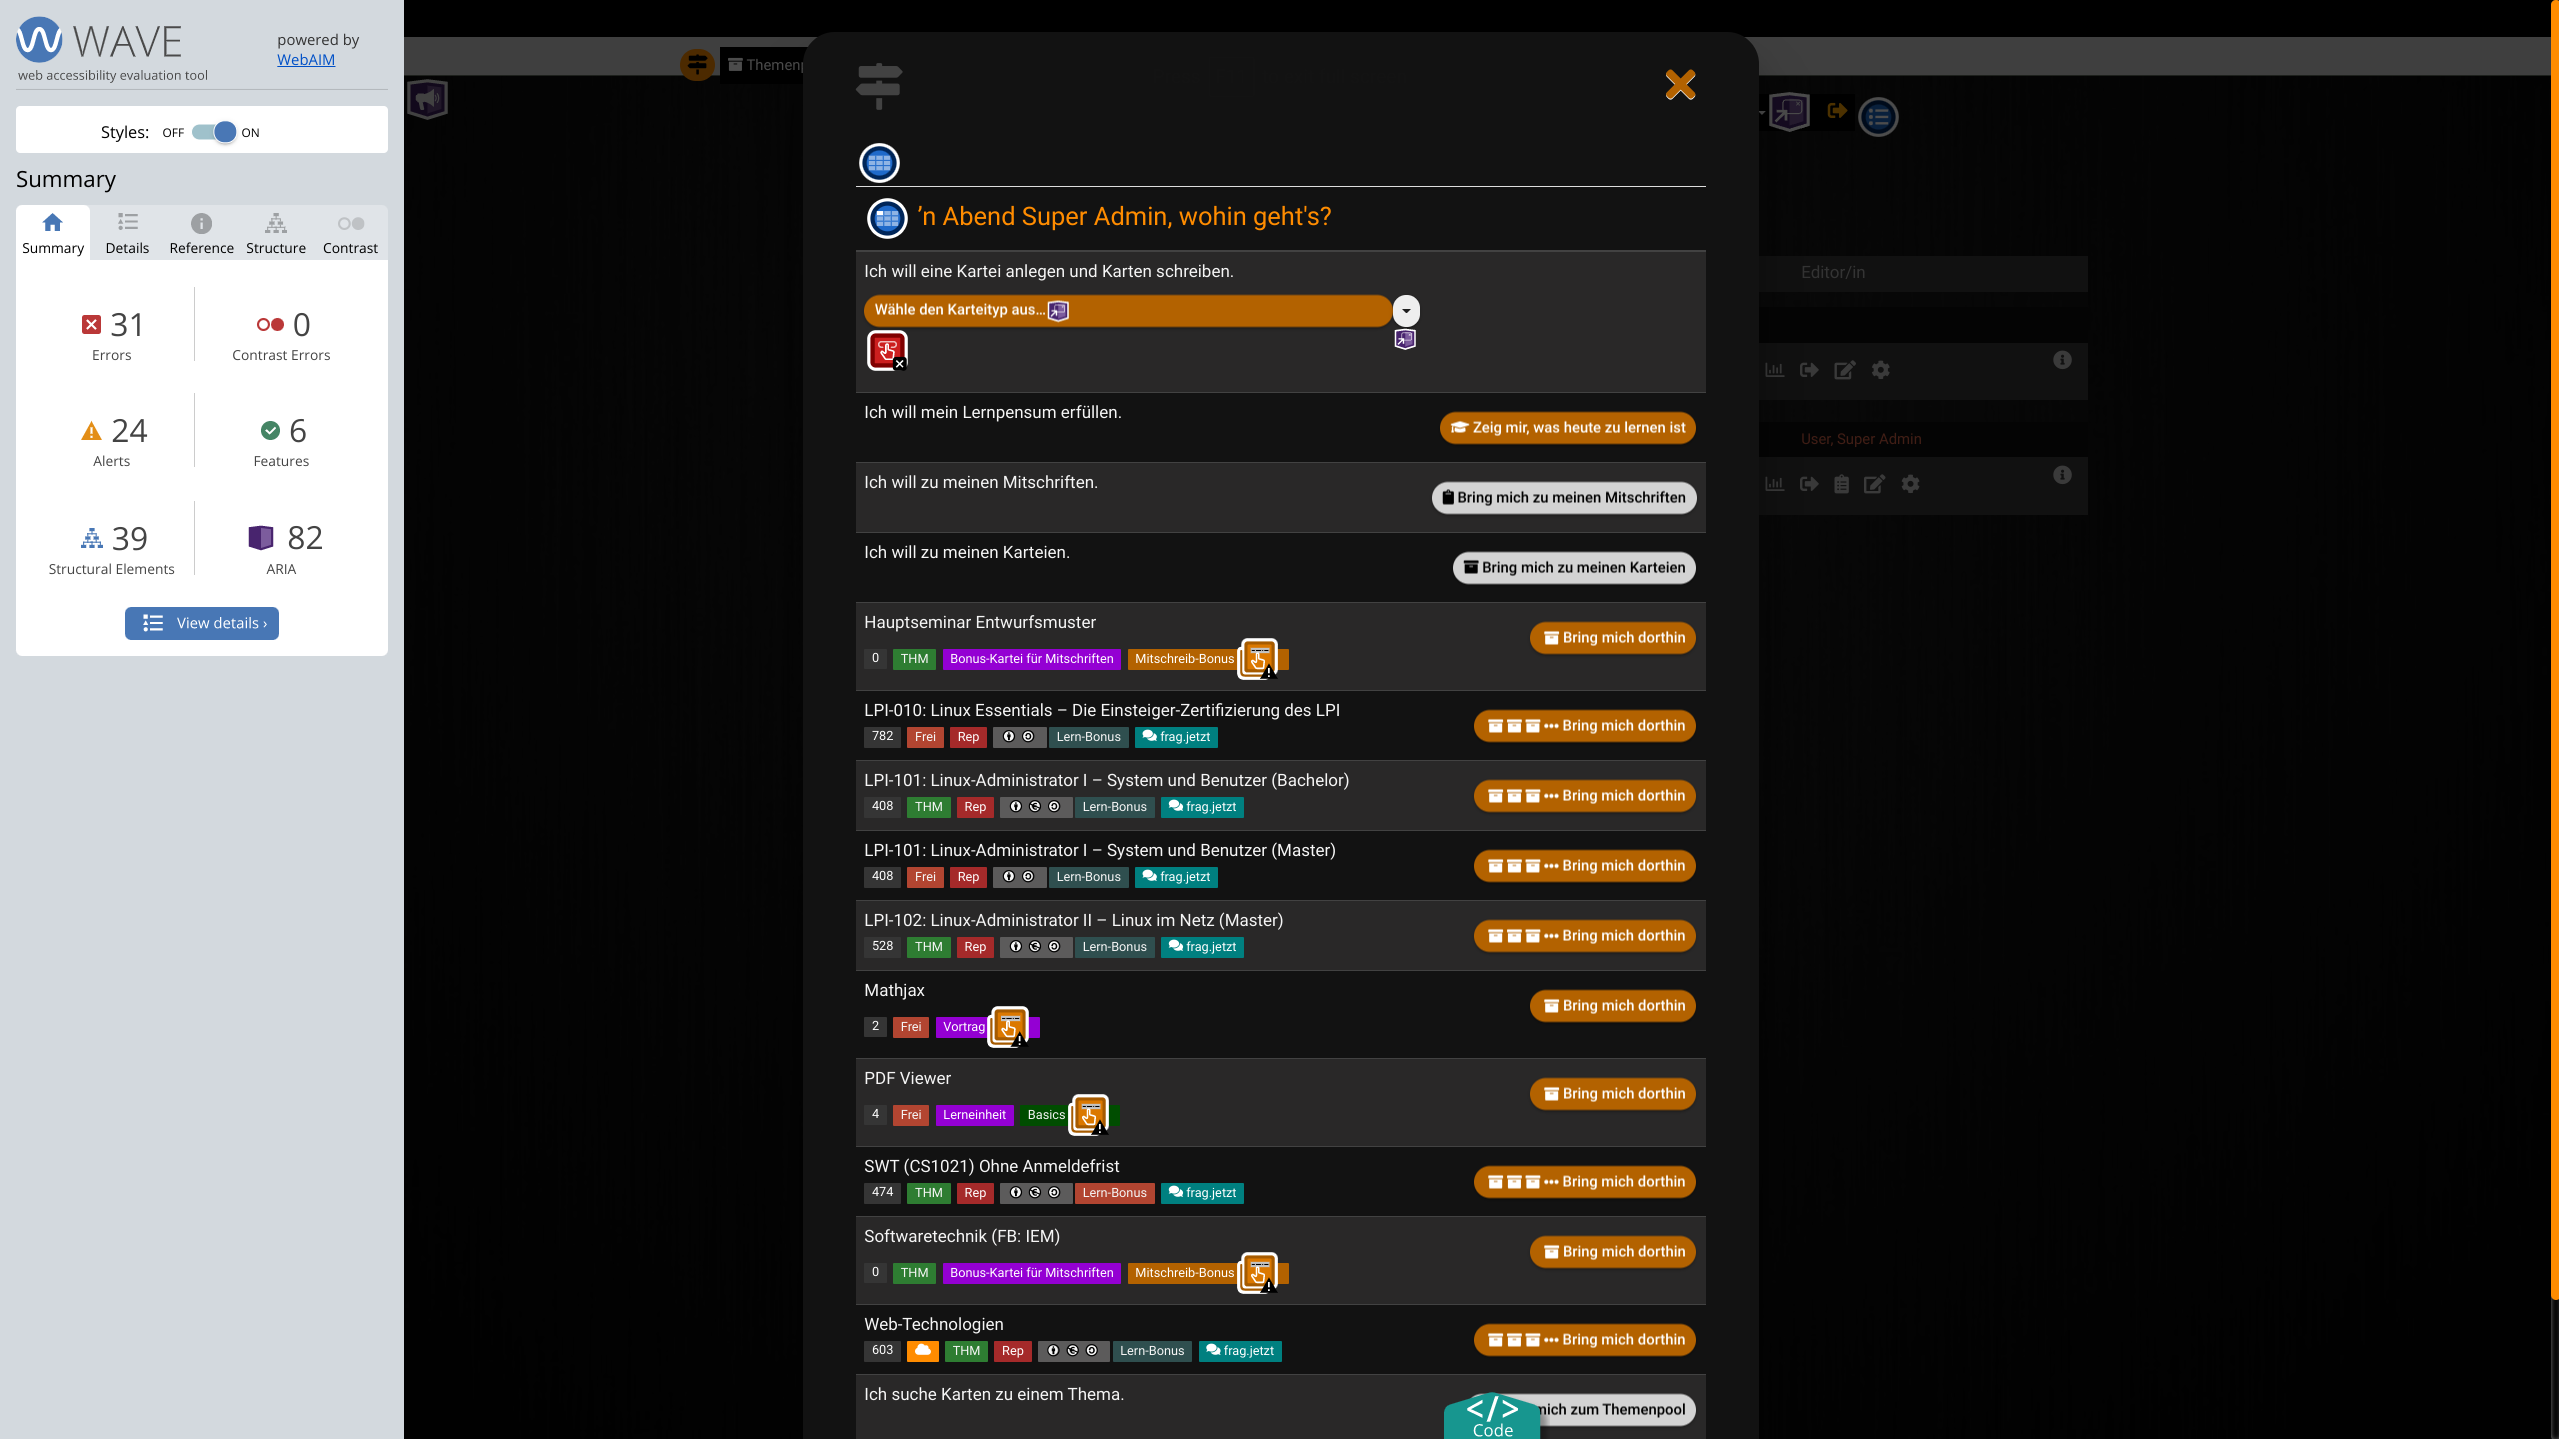
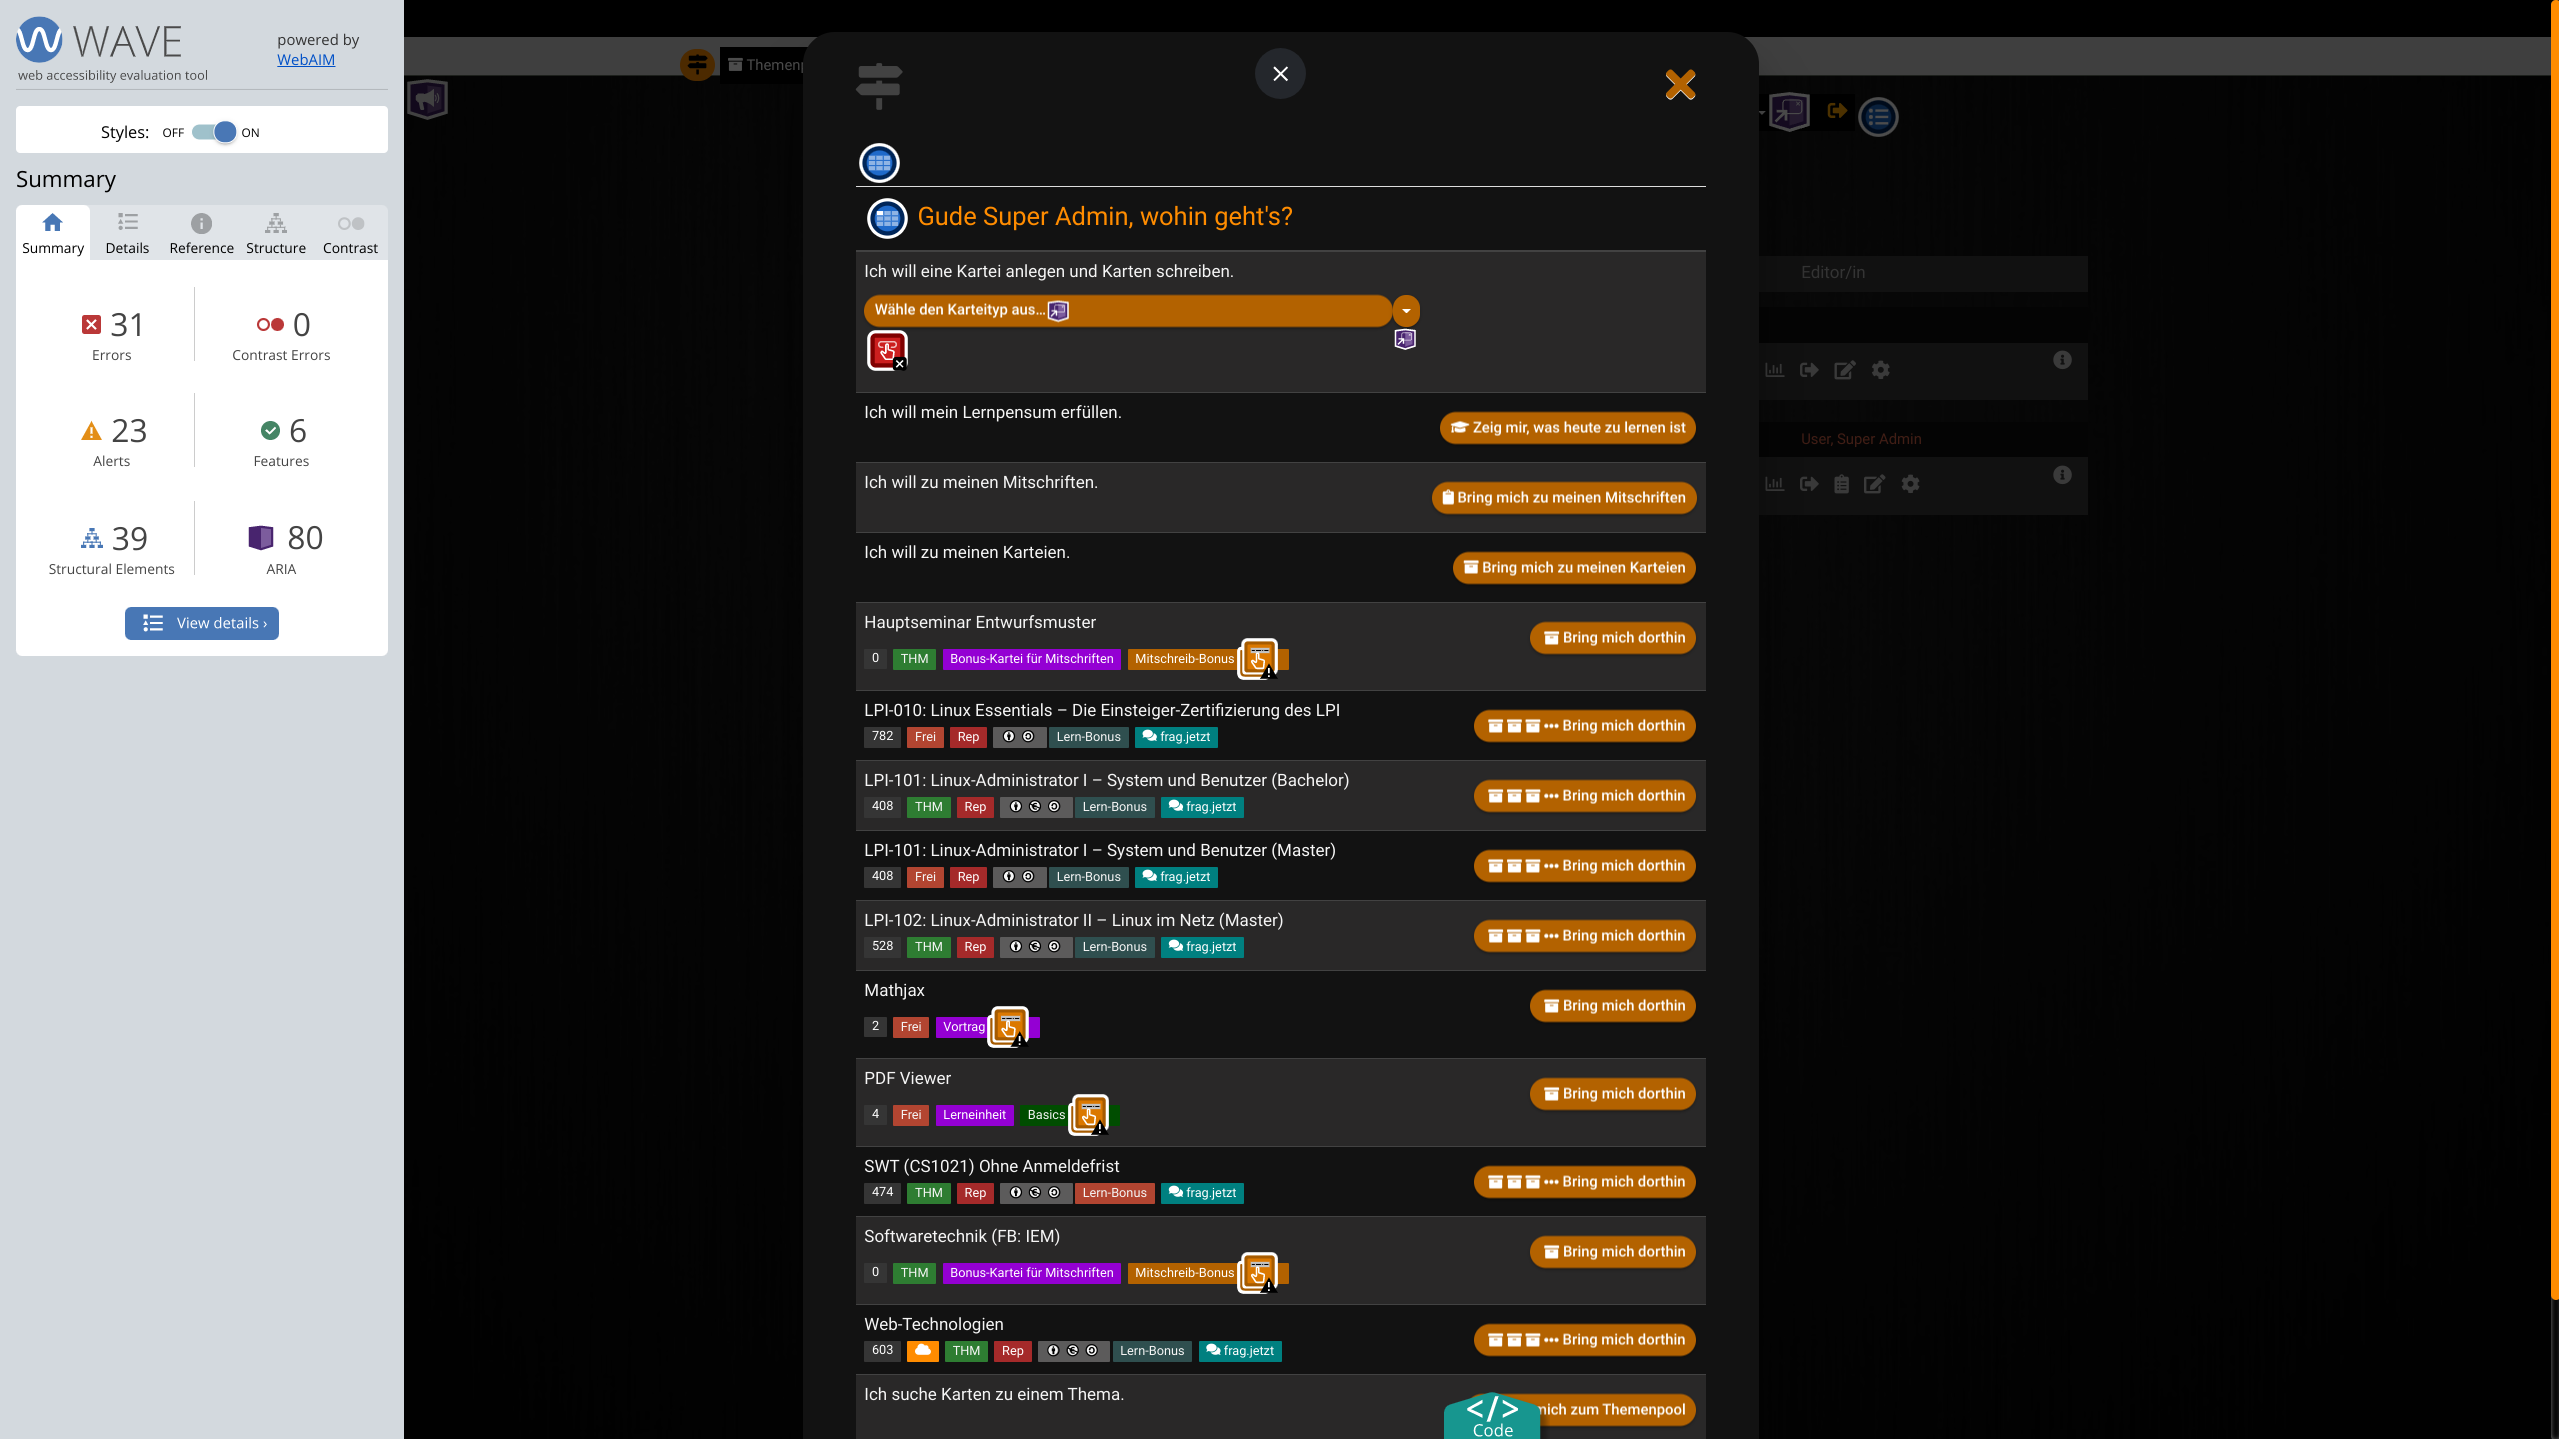
:fire: update screenshots
also fixed last white buttons

diff --git a/client/themes/theme-dark.scss b/client/themes/theme-dark.scss
@@ -745,8 +745,8 @@
           "cardset_markdeep_placeholder": $default_green,
           "cardset_markdeep_content_background": $default_background,
           "cardset_footer_navigation_background": $default_grey,
-          "cardset_footer_navigation_index_background": none,
-          "cardset_footer_navigation_index_text": black,
+          "cardset_footer_navigation_index_background": $default_dark_orange,
+          "cardset_footer_navigation_index_text": white,
           "cardset_footer_navigation_index_background_hover": $button_background_hover,
           "cardset_footer_navigation_index_text_hover": $button_text_hover,
           "cardset_footer_navigation_presentation_background": $default_dark_blue,
@@ -791,8 +791,8 @@
           "cardset_footer_navigation_new_card_text": white,
           "cardset_footer_navigation_new_card_background_hover": $button_background_hover,
           "cardset_footer_navigation_new_card_text_hover": $button_text_hover,
-          "cardset_footer_navigation_import_cards_background": none,
-          "cardset_footer_navigation_import_cards_text": black,
+          "cardset_footer_navigation_import_cards_background": $default_dark_orange,
+          "cardset_footer_navigation_import_cards_text": white,
           "cardset_footer_navigation_import_cards_background_hover": $button_background_hover,
           "cardset_footer_navigation_import_cards_text_hover": $button_text_hover,
           "cardset_footer_navigation_edit_shuffle_background": brown,
@@ -803,12 +803,12 @@
           "cardset_footer_navigation_edit_cardset_text": white,
           "cardset_footer_navigation_edit_cardset_background_hover": $button_background_hover,
           "cardset_footer_navigation_edit_cardset_text_hover": $button_text_hover,
-          "cardset_footer_navigation_select_license_background": none,
-          "cardset_footer_navigation_select_license_text": black,
+          "cardset_footer_navigation_select_license_background": $default_dark_orange,
+          "cardset_footer_navigation_select_license_text": white,
           "cardset_footer_navigation_select_license_background_hover": $button_background_hover,
           "cardset_footer_navigation_select_license_text_hover": $button_text_hover,
-          "cardset_footer_navigation_publish_cardset_background": none,
-          "cardset_footer_navigation_publish_cardset_text": black,
+          "cardset_footer_navigation_publish_cardset_background": $default_dark_orange,
+          "cardset_footer_navigation_publish_cardset_text": white,
           "cardset_footer_navigation_publish_cardset_background_hover": $button_background_hover,
           "cardset_footer_navigation_publish_cardset_text_hover": $button_text_hover,
           "cardset_footer_navigation_bonus_background": $default_green,
@@ -855,8 +855,8 @@
           "cardset_footer_navigation_manage_list_leave_editors_text": white,
           "cardset_footer_navigation_manage_list_leave_editors_background_hover": $button_background_hover,
           "cardset_footer_navigation_manage_list_leave_editors_text_hover": $button_text_hover,
-          "cardset_footer_navigation_export_cards_background": none,
-          "cardset_footer_navigation_export_cards_text": black,
+          "cardset_footer_navigation_export_cards_background": $default_dark_orange,
+          "cardset_footer_navigation_export_cards_text": white,
           "cardset_footer_navigation_export_cards_background_hover": $button_background_hover,
           "cardset_footer_navigation_export_cards_text_hover": $button_text_hover,
           "cardset_footer_navigation_delete_all_cards_background": $default_dark_red,

diff --git a/client/themeSwitcher.scss b/client/themeSwitcher.scss
@@ -1959,6 +1959,9 @@ $themes: (
         a {
           color: $primary !important;
         }
+        .btn-group {
+          background-color: red;
+        }
       }
     }
 
